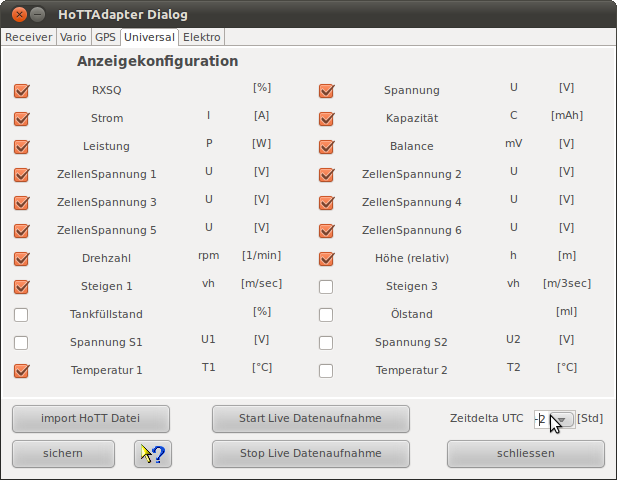
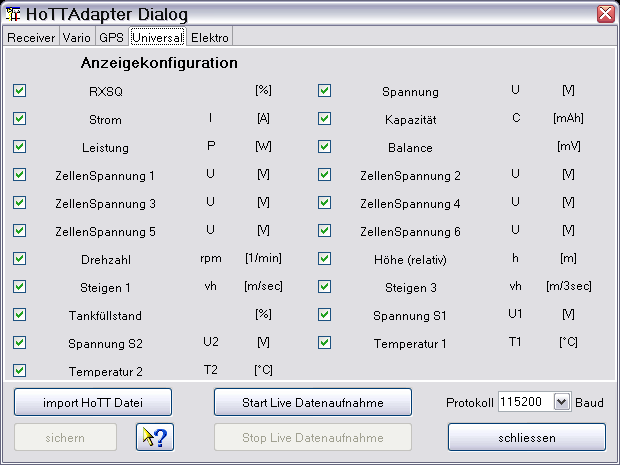
add HoTTAdapter implementation

diff --git a/HoTTAdapter/src/help/en/HelpInfo.html b/HoTTAdapter/src/help/en/HelpInfo.html
@@ -16,13 +16,13 @@
     You should have received a copy of the GNU General Public License
     along with GNU DataExplorer.  If not, see <http://www.gnu.org/licenses/>.
     
-    Copyright (c) 2008,2009,2010,2011 Winfried Bruegmann
+    Copyright (c) 2011 Winfried Bruegmann
 ************************************************************************************** 
 -->
 <HTML>
 <HEAD>
 	<META HTTP-EQUIV="CONTENT-TYPE" CONTENT="text/html; charset=utf-8">
-	<TITLE>DataExplorer - HoTTAdapter Device dialog</TITLE>
+	<TITLE>DataExplorer - HoTTAdapter Device Dialog</TITLE>
 	<META NAME="CHANGEDBY" CONTENT="Winfried Br&uuml;gmann">
 </HEAD>
 <BODY LANG="en-US" DIR="LTR">
@@ -33,10 +33,10 @@
 Using the "import HoTT file" button a file selection dialog enable to open new files while applying the current visible
 visualization configuration dialog.
 Start/Stop live data gathering uses the configured serial port.
+Selecting the Baud rate also selects the used protocol type.
+115200 Baud f&uuml;r for mx-12(#33112), mx-16(#33116), mx-20...., 19200 Baud for the older mx-12(#4754), mx-16(#4755), #33300 Module, #33301 Module, #33302 Module, #33302 Module.
 </P>
 <P ALIGN=CENTER><IMG SRC="HelpInfo_Image_1.png" NAME="Image1" ALT="Image1">
-</P>
-<P>Configuring the time delta to UTC the position related time zone difference can be adapted.
 </P>
 <P><B>Hint: </B>Curves will be switched invisible if they contain only zero as data points, even if selected! 
 This might be corrected by re-selecting the curve in this configuration dialog.

diff --git a/HoTTAdapter/src/help/de/HelpInfo.html b/HoTTAdapter/src/help/de/HelpInfo.html
@@ -32,10 +32,10 @@
 <P>Der gezeigte Ger&auml;tedialog dient zur Konfiguration der Anzeige der ausgelesenen Daten.
 &Uuml;ber einen Dateiauswahldialog, erreichbar &uuml;ber "import HoTT Datei", k&ouml;nnen auch neue Dateien eingelesen werden.
 Start/Stop live Datenaufnahme &uuml;ber den konfigurierten seriellen Port.
+Die Auswahl der &Uuml;bertragungsgeschwindigkeit legt auch das verwendete Protokoll fest. 
+115200 Baud f&uuml;r die mx-12(#33112), mx-16(#33116), mx-20...., 19200 Baud für die &auml;lteren mx-12(#4754), mx-16(#4755), #33300 Module, #33301 Module, #33302 Module, #33302 Module
 </P>
 <P ALIGN=CENTER><IMG SRC="HelpInfo_Bild_1.png" NAME="HelpInfo_Bild_1" ALT="HelpInfo_Bild_1">
-</P>
-<P>&Uuml;ber die Konfiguration eines Zeitdeltas kann die positionsbezogene Zeitzonenabweichung angepasst werden.
 </P>
 <P><B>Hinweis: </B>Kurven, die lediglich Nullen als Daten enthalten werden automatisch ausgeblendet. Durch doppelte Selektion einer eigentlich selektierten Kurve kann man die Kurve trotzdem sichtbar schalten! 
 </P>
